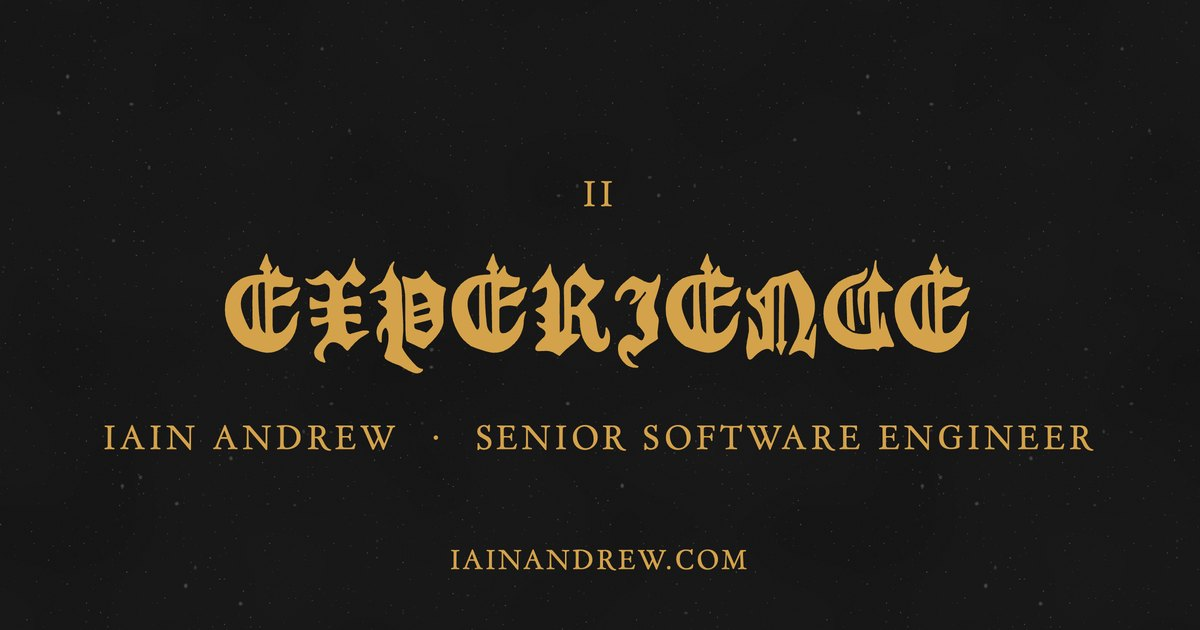
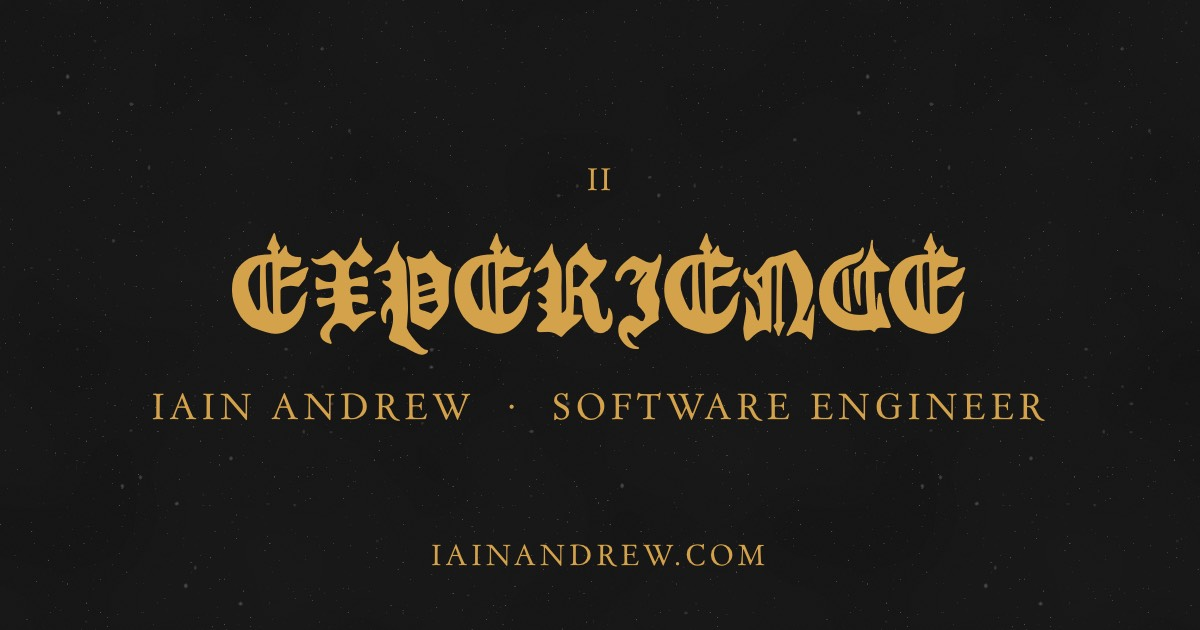
Software Engineer as the headline title; experience matches the new CV; music on the about page; script for the social images
Drop "Senior" from titles, descriptions and structured data; the Canva role keeps its real title. Regenerate the OG cards and LinkedIn covers with scripts/images.mjs (npm run images), which renders them in headless Chrome with the site's fonts and paper.

diff --git a/public/experience/index.html b/public/experience/index.html
@@ -42,21 +42,20 @@
 
       <h2>Senior Software Engineer</h2>
       <p class="meta">Canva · 2021 – 2026 · Remote</p>
-      <p>Pexels is Canva's free stock photo and video platform. I was hired to work on the web frontend, and over five and a half years my remit grew until I was leading some of the team's biggest projects across web, backend, mobile, and data.</p>
+      <p>Pexels is Canva's free stock photo and video platform, with more than a million visitors a day. I was hired to work on the web frontend, and over five and a half years my remit grew until I was leading some of the team's biggest projects across web, backend, mobile, and data.</p>
       <ul>
-        <li>Led delivery of the 2025 engineering programme focused on bringing Pexels users into Canva. That included a dual "Download / Edit in Canva" button on grid tiles (which lifted daily click-through by 45% on its own), Canva-branded inline ads rolled out globally in 18 languages, a custom right-click context menu, and deep links that drop the selected photo or video straight into Canva's editor. We ran every change as a controlled A/B test with strict guardrail metrics, finished the half well ahead of target, and roughly tripled monthly Canva sign-ups coming from Pexels.</li>
-        <li>Scoped, architected, and built most of The Level Up, Pexels' first photography course (and the first project our engineering and marketing teams ran together). I built the Rails data models and API for enrolment and progress, progressive episode unlocking, and a video player with chapters, playback resume, and localised captions. I also put together two automated pipelines behind it: one encoding source video for the web, and another using Whisper and AI translation to generate captions in 27 languages.</li>
+        <li>Led the 2025 engineering programme moving Pexels users into Canva's editor: ten initiatives, each taken from scoping through to the experiment readout. That included a dual "Download / Edit in Canva" button on grid tiles (which lifted daily click-through by 45% on its own), Canva-branded inline ads rolled out globally in 18 languages, a custom right-click context menu, and deep links that drop the selected photo or video straight into Canva's editor. We ran every change as a controlled A/B test with strict guardrail metrics, finished the half well ahead of target. Across the programme, daily click-throughs to Canva rose 79% and monthly Canva sign-ups coming from Pexels tripled (up 200%).</li>
+        <li>Designed and led the development of The Level Up, Pexels' first photography course (and the first project our engineering and marketing teams ran together). I built the Rails data models and API for enrolment and progress, progressive episode unlocking, and a video player with chapters, playback resume, and localised captions. I also put together two automated pipelines behind it: one encoding source video for the web, and another using Whisper and AI translation to generate captions in 27 languages.</li>
         <li>Stepped in to fix our frontend production reliability when the Next.js servers were a recurring source of outages. Despite being new to Kubernetes at the time, I load-tested and restructured the server fleet (cutting memory per process by 65%) and later designed readiness and route pre-warming health checks that dropped peak response times during deploys by 71%. The frontend went from a regular cause of incidents to rock solid.</li>
-        <li>Designed and built our in-house A/B testing framework when Google Optimize was shut down. It assigns variants at the edge in Cloudflare Workers with per-variant caching, supports server-side experiments the old tooling couldn't run, and handles concurrent experiments and country targeting. I also wrote the documentation the team still relies on to set up and run tests.</li>
-        <li>Led the migration to schema-validated analytics events on Snowplow and Iglu, building a single type-safe schema package shared between web and mobile. We ran the old and new tracking in parallel during the transition, and I tracked down the root cause of every data discrepancy before we switched over.</li>
-        <li>Built our contributor recognition features end to end, including the Winners Wall (which quickly became a favourite page among contributors) and the backend data model, schema migrations, and production backfills behind profile achievements. Rather than style the dark UI as a one-off, I built a reusable theming system that we used again weeks later for The Level Up.</li>
-        <li>Helped drive AI adoption across the team, starting with a March 2025 write-up that kicked off the conversation at Pexels and drew engineers from across Canva. I ran weekly knowledge-sharing sessions, built the frontend repo's agent configuration on the open AGENTS.md and SKILL.md standards (since adopted across the other Pexels repos), and coached our product designer through shipping his first pull request.</li>
-        <li>Shipped around 840 pull requests across our frontend (Next.js, React), backend (Rails), mobile (React Native), and edge (Cloudflare Workers) codebases, and ran the mobile app releases.</li>
+        <li>Designed and built our in-house A/B testing framework when Google Optimize was shut down. It assigns variants at the edge in Cloudflare Workers with per-variant caching, supports server-side experiments the old tooling couldn't run, and handles concurrent experiments and country targeting. Every web experiment since 2023 has run on it, and I also wrote the documentation the team still relies on to set up and run tests.</li>
+        <li>Led the migration to schema-validated analytics events on Snowplow and Iglu, building a single type-safe schema package shared between web and mobile.</li>
+        <li>Built our contributor recognition features end to end, including the Winners Wall (which quickly became a favourite page among contributors) and the backend data model, schema migrations, and production backfills behind profile achievements.</li>
+        <li>Helped drive AI adoption across the team. I participated in weekly knowledge-sharing sessions, built the frontend repo's agent configuration on the open AGENTS.md and SKILL.md standards (since adopted across the other Pexels repos), and even coached our product designer through shipping his first pull request.</li>
       </ul>
 
       <h2>Lead Front End Engineer</h2>
       <p class="meta">Wia · 2018 – 2021 · Dublin</p>
-      <p>I was the sole frontend engineer at an Internet of Things startup for three years, owning and building the platform's Angular application end to end.</p>
+      <p>I was the lead frontend engineer at an Internet of Things startup for three years, owning and building the platform's Angular application end to end.</p>
       <ul>
         <li>Built a visual, drag-and-drop code editor on Google Blockly so beginners could program IoT devices without writing code. Custom blocks generated Arduino code in real time, which could then be compiled and flashed to a device straight from the browser.</li>
         <li>Built the occupancy analytics product, pairing a real-time and historical dashboard (fed by Wia's people-counting sensors) with a Space Designer tool where users uploaded floor plans and drew measurement zones on an HTML canvas.</li>
@@ -64,18 +63,18 @@
 
       <h2>Front End Web Developer</h2>
       <p class="meta">USIT · 2015 – 2018 · Dublin</p>
-      <p>In-house frontend developer for Ireland's student travel company, building public websites, campaign pages, and booking flows alongside design and marketing.</p>
+      <p>In-house frontend developer for Ireland's student travel and work-abroad company, building its public websites, campaign pages, and booking journeys alongside design and marketing.</p>
       <ul>
         <li>Designed and built the page template powering hundreds of adventure-tour packages, featuring an interactive itinerary map built with Mapbox GL and programmatic Vimeo header videos.</li>
       </ul>
 
-      <h2>Front End Developer &amp; Designer</h2>
+      <h2>Web Developer &amp; Designer</h2>
       <p class="meta">Freelance · 2014 – 2015 · Dublin</p>
-      <p>Built and designed websites for a range of clients after an internship at Plugmedia covering UI design, mockups, branding, Joomla, and PHP for the agency's own rebrand and site.</p>
+      <p>Web development, UI design, and branding for a range of clients, after a developer and designer internship at Plugmedia covering front-end UI, branding, Joomla, and PHP for the agency's own rebrand and site.</p>
 
-      <h2>Audio Engineer</h2>
+      <h2>Audio Engineer &amp; Producer</h2>
       <p class="meta">Freelance, then Aria Mastering · 2011 – 2014 · Dublin</p>
-      <p>Worked as a recording engineer and music producer in Dublin studios during and after college, before running my own online mastering business.</p>
+      <p>Worked as a recording engineer and music producer in Dublin studios during and after college, before running my own online mastering business from my own home studio.</p>
 
       <h2>Education</h2>
       <ul class="links">

diff --git a/public/about/index.html b/public/about/index.html
@@ -4,7 +4,7 @@
   <meta charset="utf-8">
   <meta name="viewport" content="width=device-width, initial-scale=1">
   <title>About · Iain Andrew</title>
-  <meta name="description" content="Senior software engineer in Dublin, Ireland: frontend by trade, cross-functional in practice, remote, with coding agents at the centre of how he works.">
+  <meta name="description" content="Software engineer in Dublin, Ireland: frontend by trade, cross-functional in practice, remote, with coding agents at the centre of how he works.">
   <meta name="author" content="Iain Andrew">
   <script type="application/ld+json">
   {
@@ -14,8 +14,8 @@
     "name": "Iain Andrew",
     "url": "https://iainandrew.com/",
     "image": "https://iainandrew.com/assets/portrait.jpg",
-    "jobTitle": "Senior Software Engineer",
-    "description": "A senior software engineer in Dublin, Ireland, with twelve years in software, most recently at Canva.",
+    "jobTitle": "Software Engineer",
+    "description": "A software engineer in Dublin, Ireland, with twelve years in software, most recently at Canva.",
     "address": { "@type": "PostalAddress", "addressLocality": "Dublin", "addressCountry": "IE" },
     "email": "mailto:iainbruceandrew@gmail.com",
     "knowsAbout": ["TypeScript", "React", "Next.js", "React Native", "Ruby on Rails", "Cloudflare Workers", "Kubernetes", "Snowplow", "A/B testing", "Coding agents"],
@@ -30,7 +30,7 @@
   <meta property="og:site_name" content="Iain Andrew">
   <meta property="og:url" content="https://iainandrew.com/about/">
   <meta property="og:title" content="About · Iain Andrew">
-  <meta property="og:description" content="Senior software engineer in Dublin, Ireland: frontend by trade, cross-functional in practice, remote, with coding agents at the centre of how he works.">
+  <meta property="og:description" content="Software engineer in Dublin, Ireland: frontend by trade, cross-functional in practice, remote, with coding agents at the centre of how he works.">
   <meta property="og:image" content="https://iainandrew.com/assets/og/about.jpg">
   <meta property="og:image:width" content="1200">
   <meta property="og:image:height" content="630">
@@ -60,8 +60,8 @@
       <div class="avatar"><img src="/assets/portrait.jpg" alt="Iain Andrew" width="350" height="350"></div>
       <p>Hi, I'm Iain. I'm a software engineer in Dublin, Ireland. I've been building software for the last twelve years, most recently at Canva. My background is in frontend, though these days I'm just as comfortable working across the rest of the stack.</p>
       <p>I work remotely and plan to keep it that way. Over the last couple of years I've built my day-to-day workflow around coding agents, and I've written a bit about <a href="/how-i-work/">how that looks in practice</a>.</p>
-      <p>In a previous life I was an audio engineer, spending a few years in Dublin recording studios before running my own online mastering business.</p>
-      <!-- PLACEHOLDER: a sentence or two of personal detail. -->
+      <p>In a previous life I was an audio engineer, spending a few years in Dublin recording studios and running my own online audio mastering business.</p>
+      <p>I still make music. I write and record sad alternative folk songs under my own name, which you can listen to <a rel="me" href="https://open.spotify.com/artist/0ywlMjAP1Sn2yrXn9oEHQB">on Spotify</a>.</p>
       <p>I'm currently looking for my next role. If you'd like to talk, <a rel="me" href="mailto:iainbruceandrew@gmail.com">drop me an email</a>.</p>
 
       <h2>Elsewhere</h2>

diff --git a/public/index.html b/public/index.html
@@ -3,19 +3,19 @@
 <head>
   <meta charset="utf-8">
   <meta name="viewport" content="width=device-width, initial-scale=1">
-  <title>Iain Andrew · Senior Software Engineer, Dublin</title>
-  <meta name="description" content="Senior software engineer in Dublin, Ireland. Twelve years in software, the last five and a half at Canva, across web, backend, mobile and data.">
+  <title>Iain Andrew · Software Engineer, Dublin</title>
+  <meta name="description" content="Software engineer in Dublin, Ireland. Twelve years in software, the last five and a half at Canva, across web, backend, mobile and data.">
   <meta name="author" content="Iain Andrew">
   <link rel="canonical" href="https://iainandrew.com/">
   <meta property="og:type" content="website">
   <meta property="og:site_name" content="Iain Andrew">
   <meta property="og:url" content="https://iainandrew.com/">
-  <meta property="og:title" content="Iain Andrew · Senior Software Engineer, Dublin">
-  <meta property="og:description" content="Senior software engineer in Dublin, Ireland. Twelve years in software, the last five and a half at Canva, across web, backend, mobile and data.">
+  <meta property="og:title" content="Iain Andrew · Software Engineer, Dublin">
+  <meta property="og:description" content="Software engineer in Dublin, Ireland. Twelve years in software, the last five and a half at Canva, across web, backend, mobile and data.">
   <meta property="og:image" content="https://iainandrew.com/assets/og/home.jpg">
   <meta property="og:image:width" content="1200">
   <meta property="og:image:height" content="630">
-  <meta property="og:image:alt" content="Iain Andrew, Senior Software Engineer, Dublin, iainandrew.com">
+  <meta property="og:image:alt" content="Iain Andrew, Software Engineer, Dublin, iainandrew.com">
   <meta name="twitter:card" content="summary_large_image">
   <meta name="theme-color" content="#e4e2d7" media="(prefers-color-scheme: light)">
   <meta name="theme-color" content="#111111" media="(prefers-color-scheme: dark)">

diff --git a/public/contact/index.html b/public/contact/index.html
@@ -4,14 +4,14 @@
   <meta charset="utf-8">
   <meta name="viewport" content="width=device-width, initial-scale=1">
   <title>Contact · Iain Andrew</title>
-  <meta name="description" content="Get in touch with Iain Andrew, a senior software engineer in Dublin, Ireland, open to remote senior roles. Email, LinkedIn, GitHub and CV.">
+  <meta name="description" content="Get in touch with Iain Andrew, a software engineer in Dublin, Ireland, open to remote roles. Email, LinkedIn, GitHub and CV.">
   <meta name="author" content="Iain Andrew">
   <link rel="canonical" href="https://iainandrew.com/contact/">
   <meta property="og:type" content="website">
   <meta property="og:site_name" content="Iain Andrew">
   <meta property="og:url" content="https://iainandrew.com/contact/">
   <meta property="og:title" content="Contact · Iain Andrew">
-  <meta property="og:description" content="Get in touch with Iain Andrew, a senior software engineer in Dublin, Ireland, open to remote senior roles. Email, LinkedIn, GitHub and CV.">
+  <meta property="og:description" content="Get in touch with Iain Andrew, a software engineer in Dublin, Ireland, open to remote roles. Email, LinkedIn, GitHub and CV.">
   <meta property="og:image" content="https://iainandrew.com/assets/og/contact.jpg">
   <meta property="og:image:width" content="1200">
   <meta property="og:image:height" content="630">
